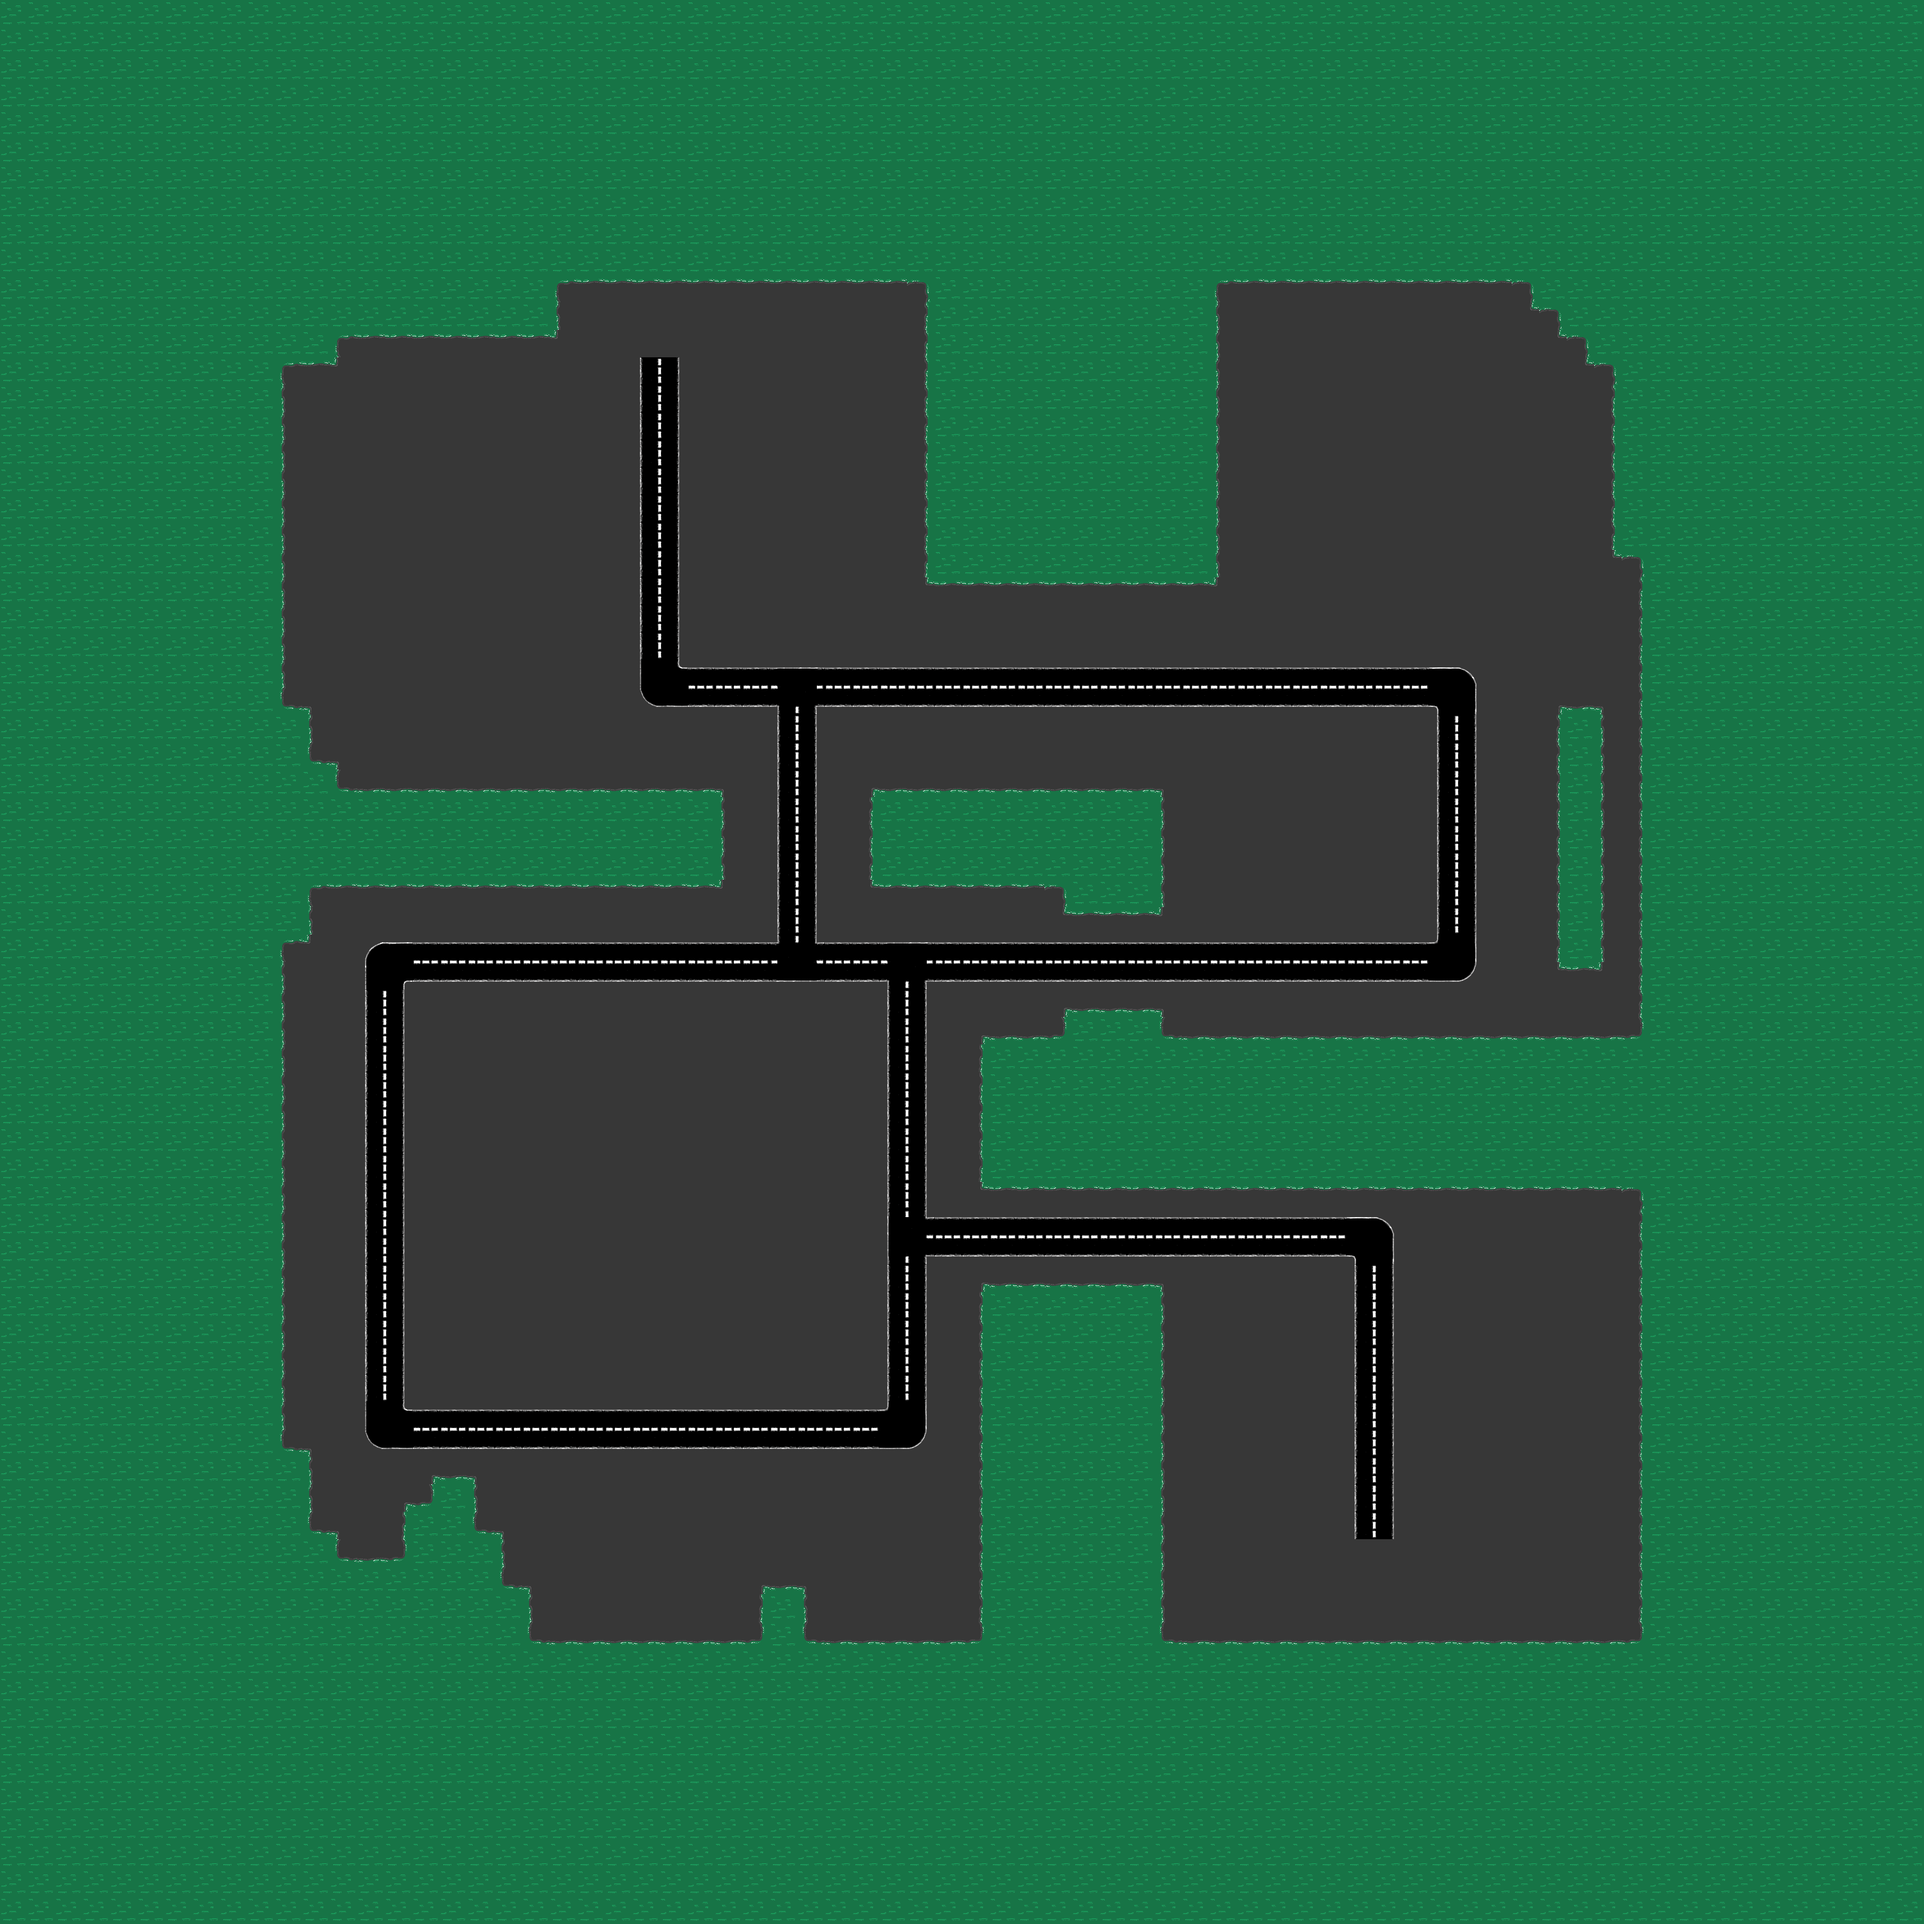
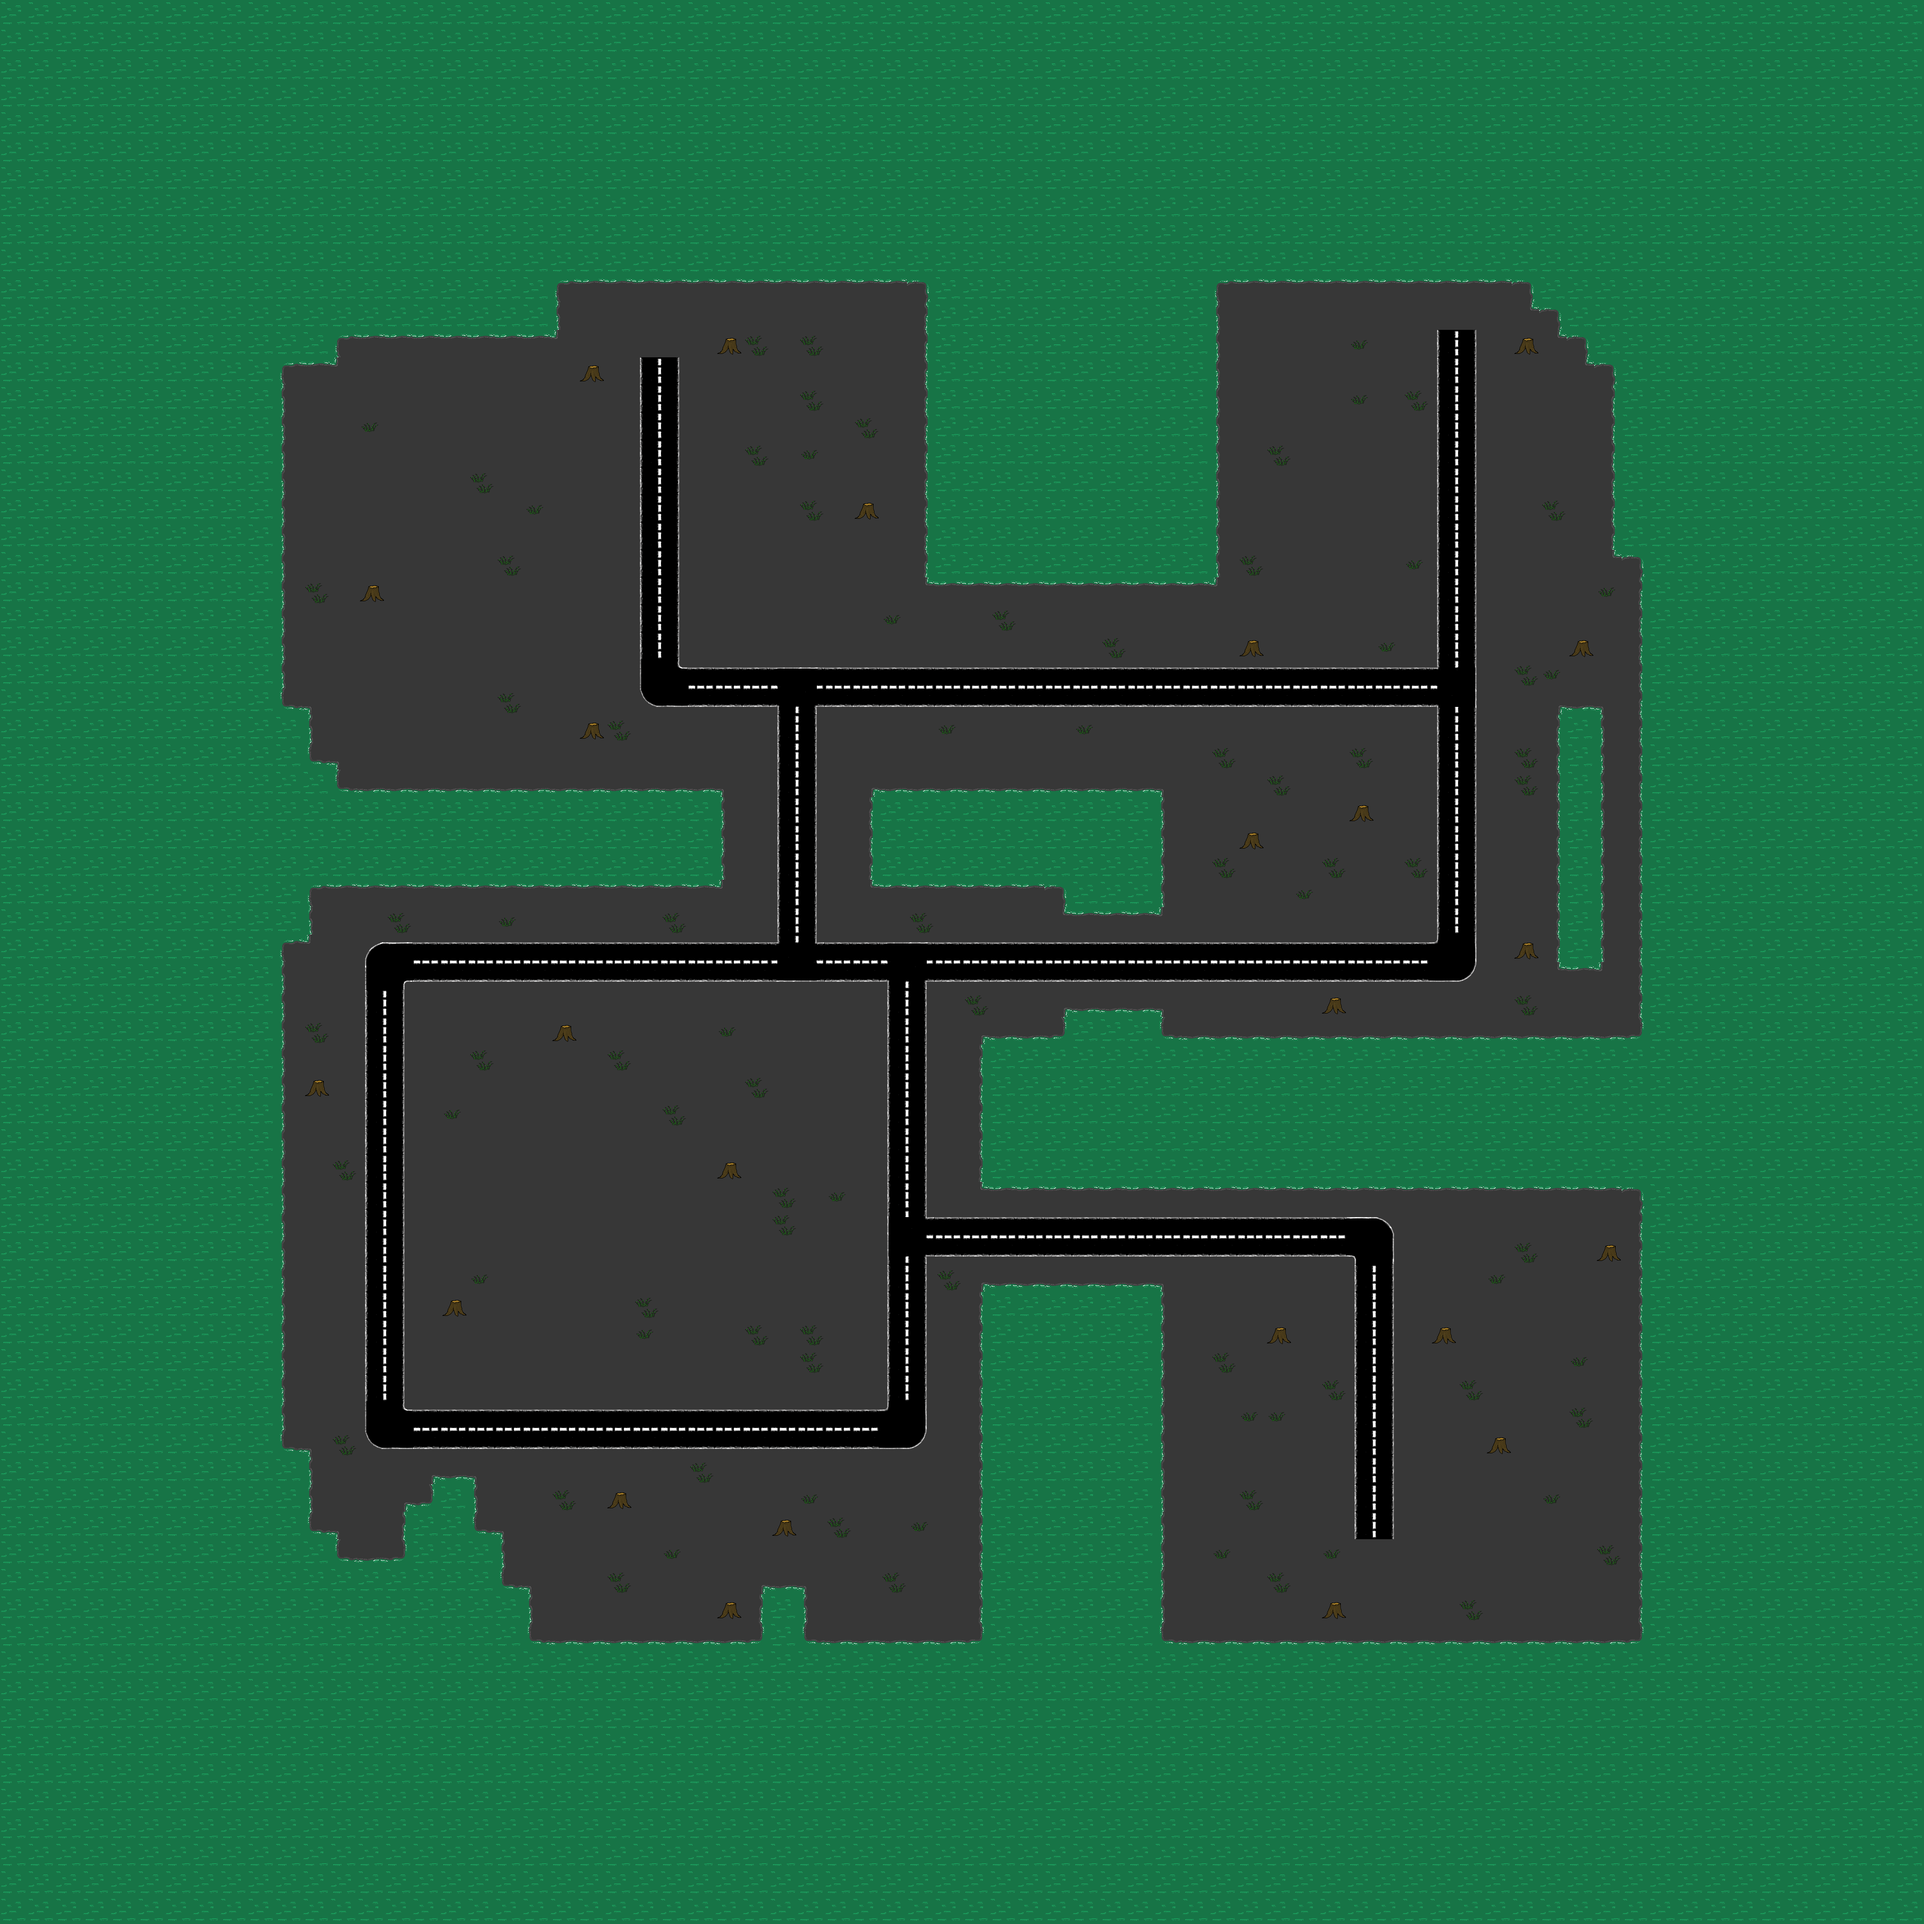
dodanie wrogów narodu i mapy

Changed region(s): [[0.75, 0.1562, 0.7812, 0.375]]

diff --git a/code/level.py b/code/level.py
@@ -40,12 +40,13 @@ class Level:
 			'boundary': import_csv_layout('../map/map_FloorBlocks.csv'),
 			'grass': import_csv_layout('../map/map_Grass.csv'),
 			'object': import_csv_layout('../map/map_Objects.csv'),
-   			'entities': import_csv_layout('../map/map_Entities.csv')
-			
+   			'entities': import_csv_layout('../map/map_Entities.csv'),
+			'details': import_csv_layout('../map/map_Details.csv')
 		}
 		graphics = {
 			'grass': import_folder('../graphics/Grass'),
 			'objects': import_folder('../graphics/objects')
+		
 		}
 
 		#Stawianie Gracza
@@ -97,13 +98,16 @@ class Level:
 
 							Tile((x,y),[self.visible_sprites,self.obstacle_sprites],'object',surf)
 
+					
+
+
 						if style == 'entities':
 							if col == '394':
 								pass
 							else:
 								if col == '390' or col == '391' or col == '392':
 									if col == '390': monster_name = 'trashbagEnemy'
-									elif col == '391': monster_name = 'spirit'
+									
 									elif col == '392': monster_name = 'trashcanEnemy'
 									Enemy(
 										monster_name,
